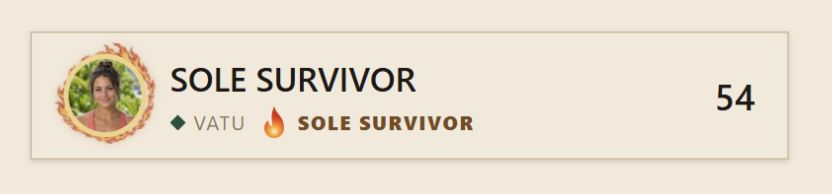
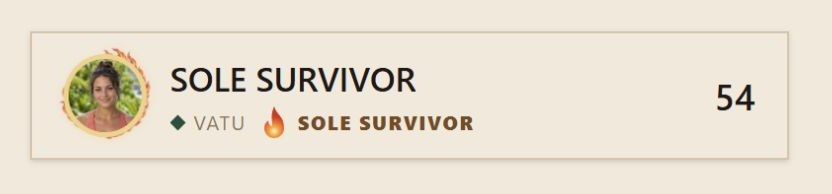
Tuck flame base beneath portrait

Changed region(s): [[0.0625, 0.2165, 0.1875, 0.7423], [0.0625, 0.3402, 0.0938, 0.3711]]

diff --git a/frontend/src/index.css b/frontend/src/index.css
@@ -688,11 +688,11 @@ html.locked-night .app-shell .ss-champion::before {
 }
 
 .sole-survivor-halo {
-  --sole-survivor-halo-size: 49px;
+  --sole-survivor-halo-size: 44px;
   isolation: isolate;
 }
 .sole-survivor-halo--prominent {
-  --sole-survivor-halo-size: 58px;
+  --sole-survivor-halo-size: 52px;
 }
 .sole-survivor-halo::after {
   content: "";
@@ -705,7 +705,7 @@ html.locked-night .app-shell .ss-champion::before {
   pointer-events: none;
   background: url("/sole-survivor-flame-halo.png") center / contain no-repeat;
   opacity: 0.72;
-  filter: brightness(0.9) saturate(0.94) drop-shadow(0 0 2px rgb(185 91 28 / 38%));
+  filter: drop-shadow(0 0 2px rgb(238 169 47 / 42%));
   transform: translate(-50%, -50%) rotate(-9deg);
 }
 .sole-survivor-halo > .contestant-avatar {
